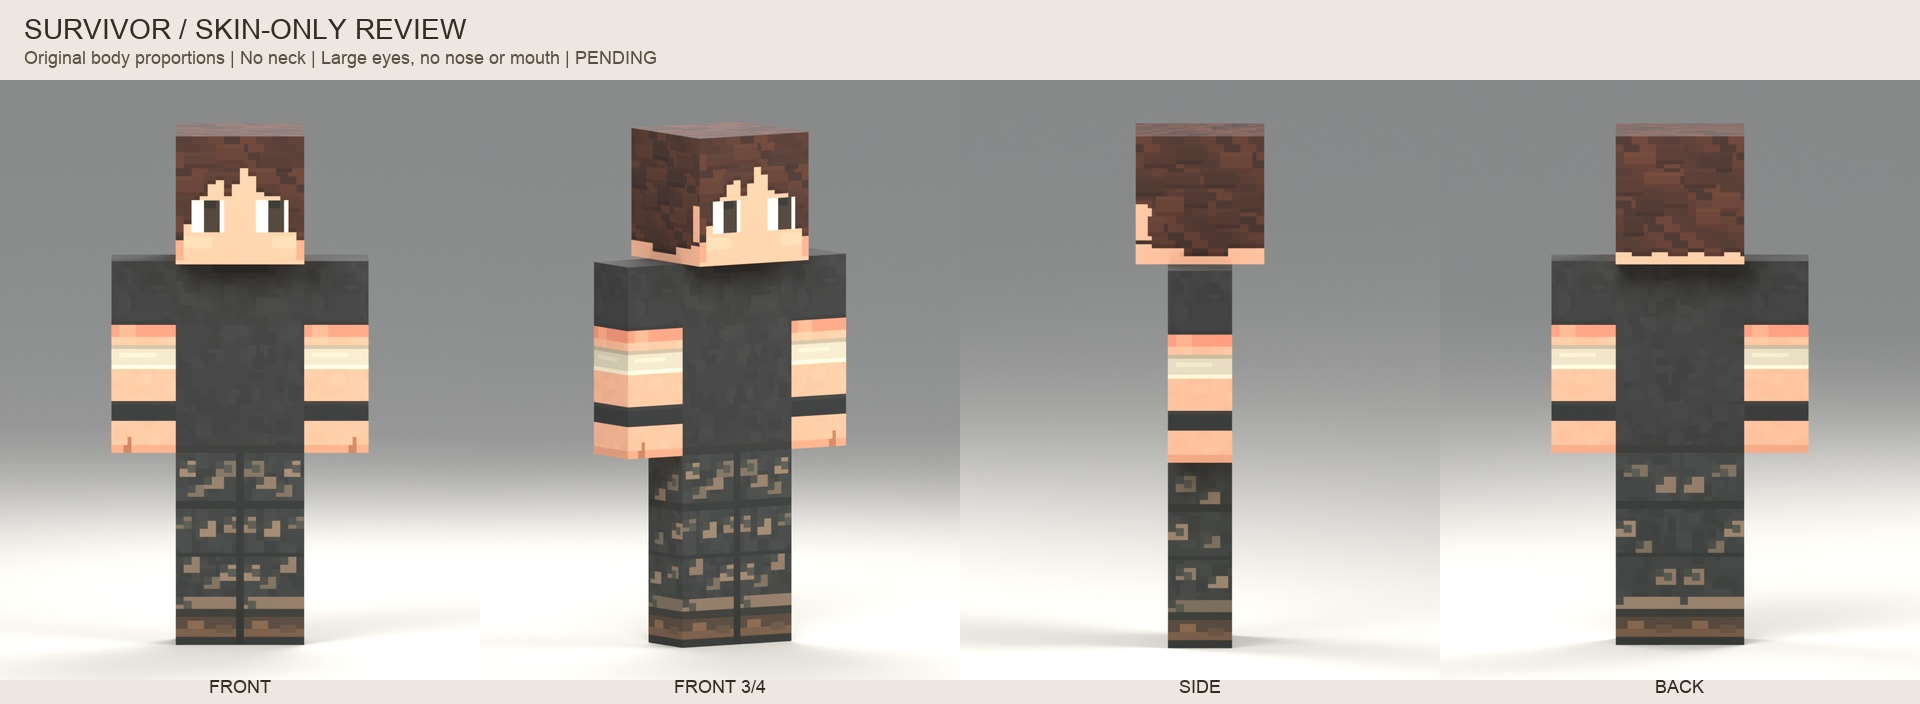
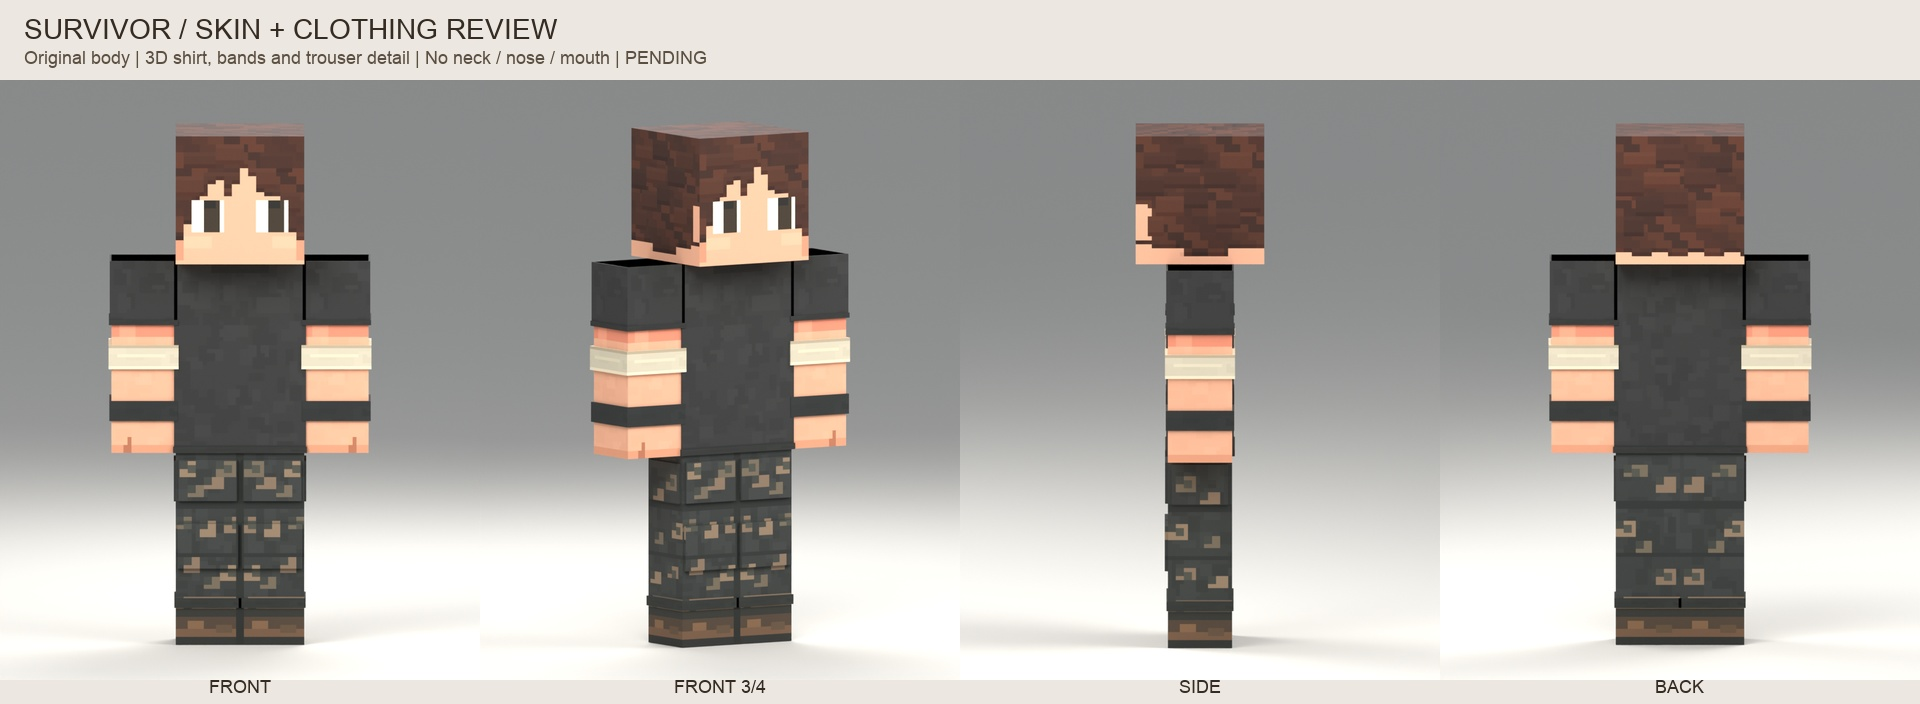
chore(project): record updates to 7 project files
Modified: 7.
Text lines: +12 / -8; binary files: 3.
- Modify: "blender/characters/player/reviews/survivor_reference_v001/Survivor_Reference_v001.blend"
- Modify: "blender/characters/player/reviews/survivor_reference_v001/build_candidate.py"
- Modify: "blender/characters/player/reviews/survivor_reference_v001/package_review.py"
- Modify: "blender/characters/player/reviews/survivor_reference_v001/reference_comparison.jpg" (binary)
- Modify: "blender/characters/player/reviews/survivor_reference_v001/reopen_validation.json"
- Modify: "blender/characters/player/reviews/survivor_reference_v001/review_four_views.jpg" (binary)
- Modify: "blender/characters/player/reviews/survivor_reference_v001/review_six_views.jpg" (binary)

diff --git a/blender/characters/player/reviews/survivor_reference_v001/package_review.py b/blender/characters/player/reviews/survivor_reference_v001/package_review.py
@@ -8,8 +8,8 @@ views=['Front','Front_3Q','Left_Side','Back','Right_Side','Back_3Q']
 labels={'Front':'FRONT','Front_3Q':'FRONT 3/4','Left_Side':'SIDE','Back':'BACK','Right_Side':'OTHER SIDE','Back_3Q':'BACK 3/4'}
 for names,file in [(views[:4],'review_four_views.jpg'),(views,'review_six_views.jpg')]:
  canvas=Image.new('RGB',(480*len(names),704),(236,232,225));d=ImageDraw.Draw(canvas)
- d.text((24,13),'SURVIVOR / SKIN-ONLY REVIEW',font=TITLE,fill=(52,43,35))
- d.text((24,47),'Original body proportions | No neck | Large eyes, no nose or mouth | PENDING',font=SMALL,fill=(91,79,65))
+ d.text((24,13),'SURVIVOR / SKIN + CLOTHING REVIEW',font=TITLE,fill=(52,43,35))
+ d.text((24,47),'Original body | 3D shirt, bands and trouser detail | No neck / nose / mouth | PENDING',font=SMALL,fill=(91,79,65))
  for i,name in enumerate(names):
   im=Image.open(OUT/'renders'/f'{name}.png').convert('RGB').resize((480,600),Image.Resampling.LANCZOS)
   canvas.paste(im,(480*i,80));d.text((480*i+240,686),labels[name],font=SMALL,anchor='mm',fill=(52,43,35))

diff --git a/blender/characters/player/reviews/survivor_reference_v001/build_candidate.py b/blender/characters/player/reviews/survivor_reference_v001/build_candidate.py
@@ -1,5 +1,5 @@
-"""Skin-only Pending review. Append the ORIGINAL V6 six-cuboid mesh/rig read-only.
-No new character geometry, proportions, neck, poses, Actions or Godot changes.
+"""Pending skin/clothing review. Append the ORIGINAL V6 body/rig read-only.
+Only requested external clothes are added; no base shape, neck, pose, Action or Godot changes.
 """
 import bpy,math,json,sys,hashlib,struct
 from pathlib import Path
